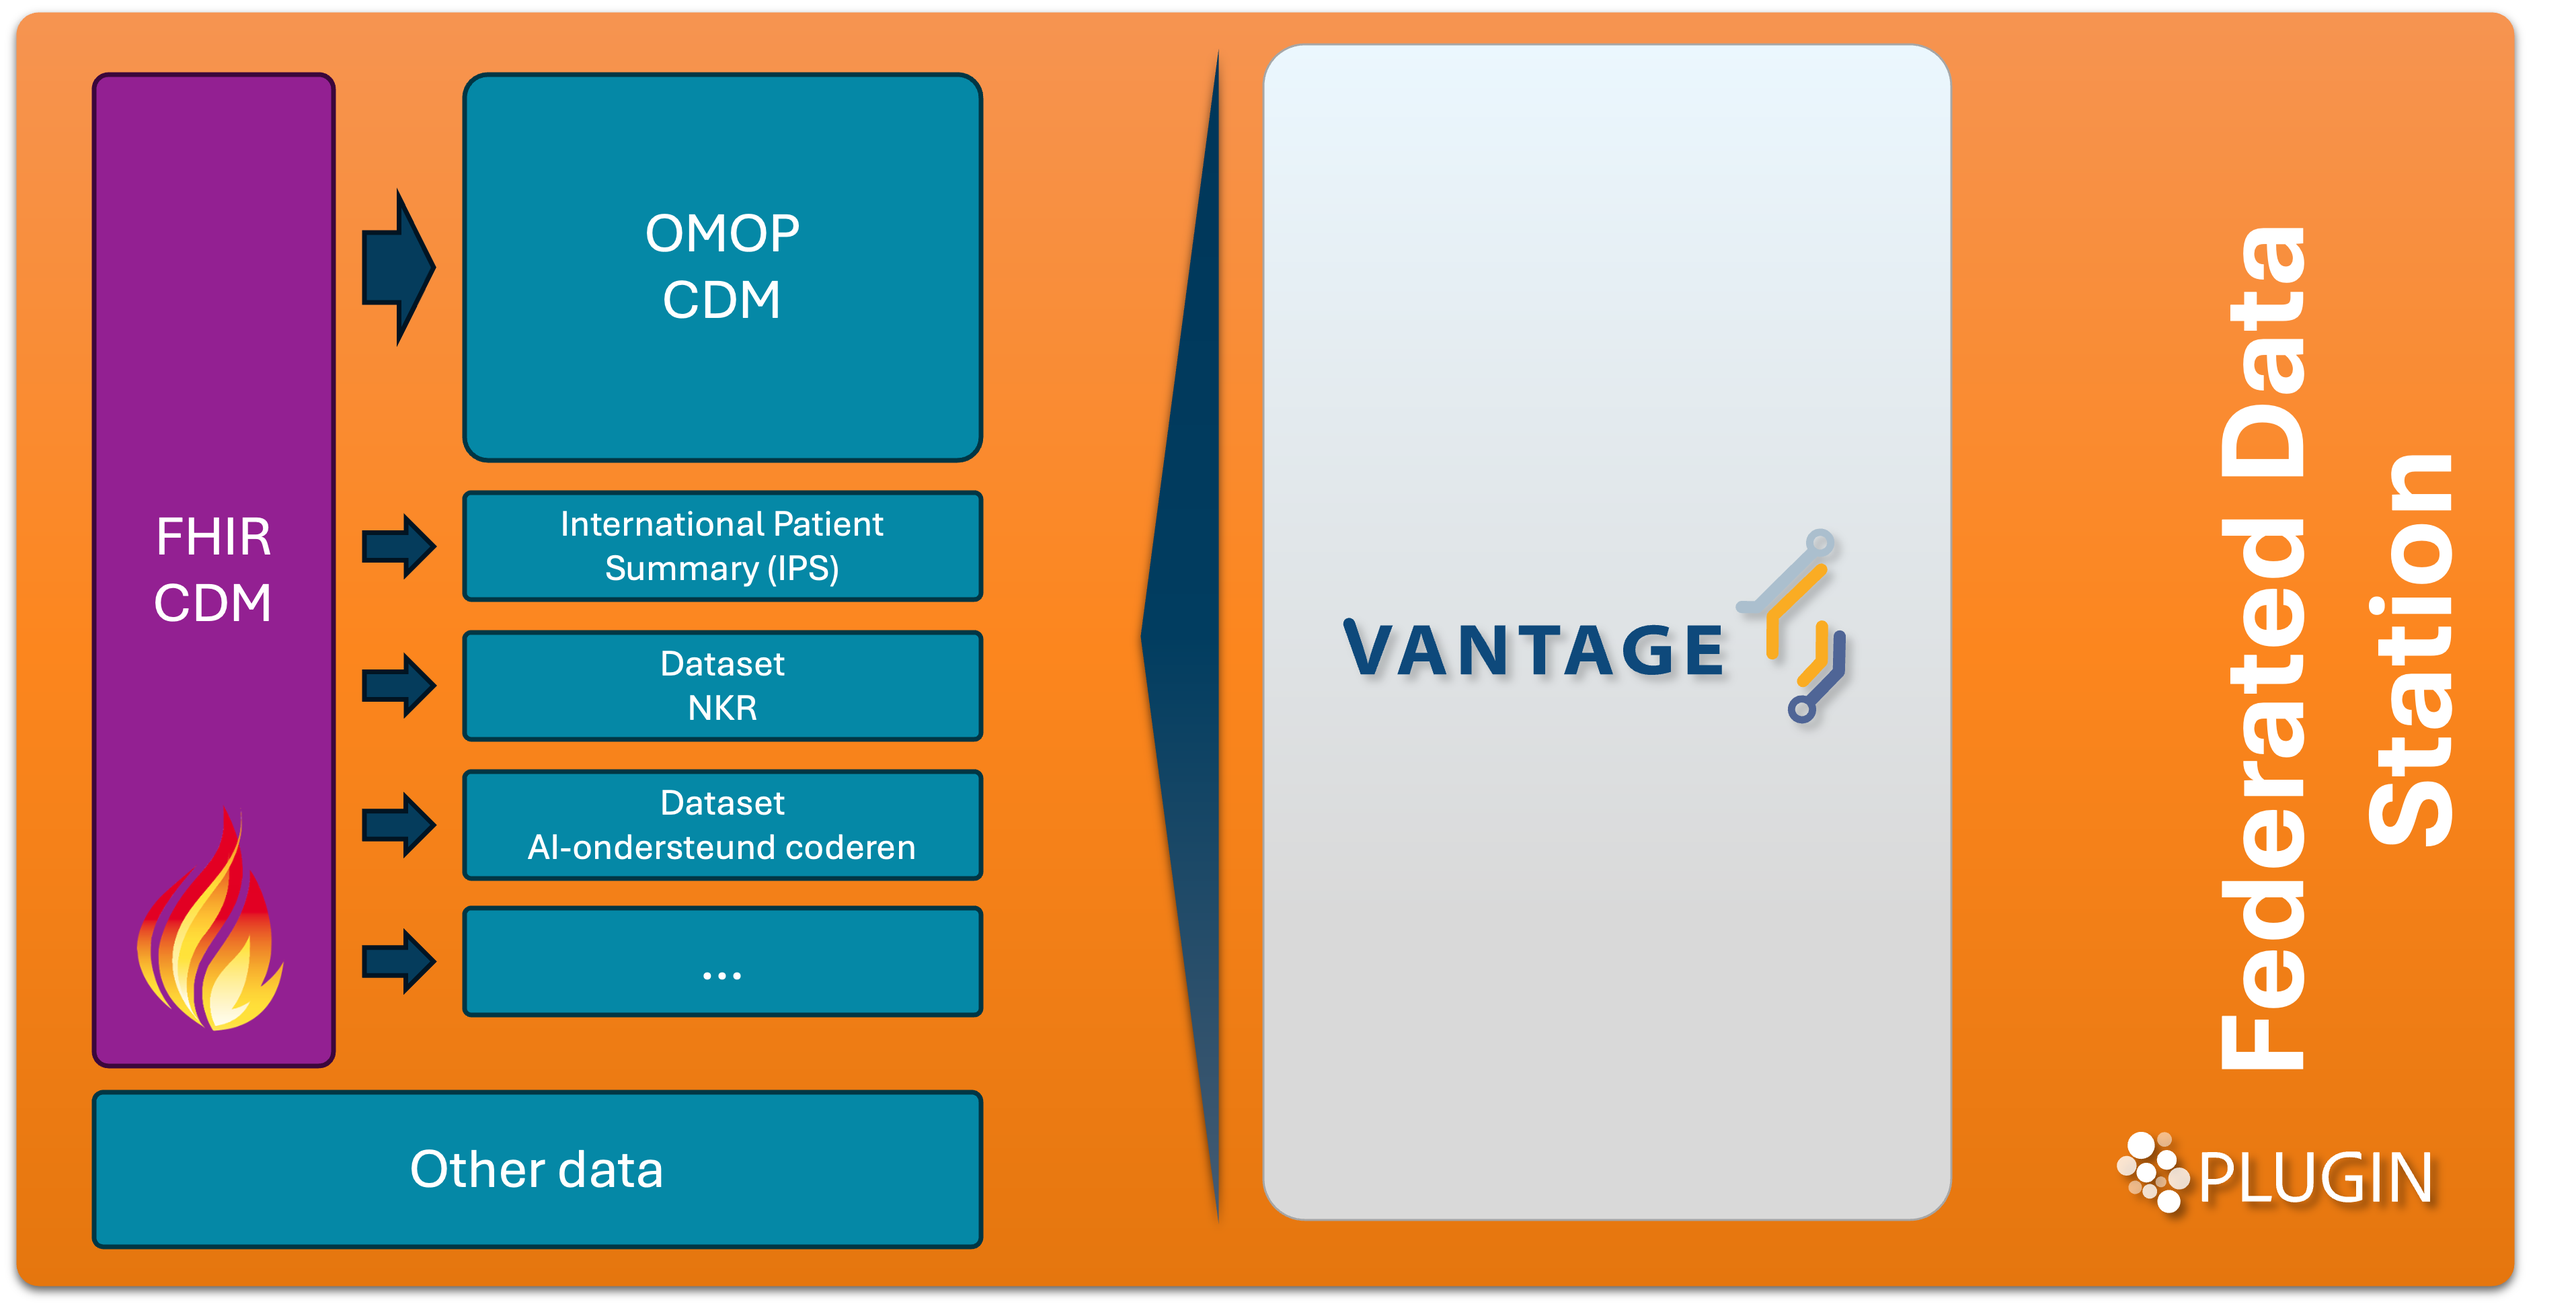
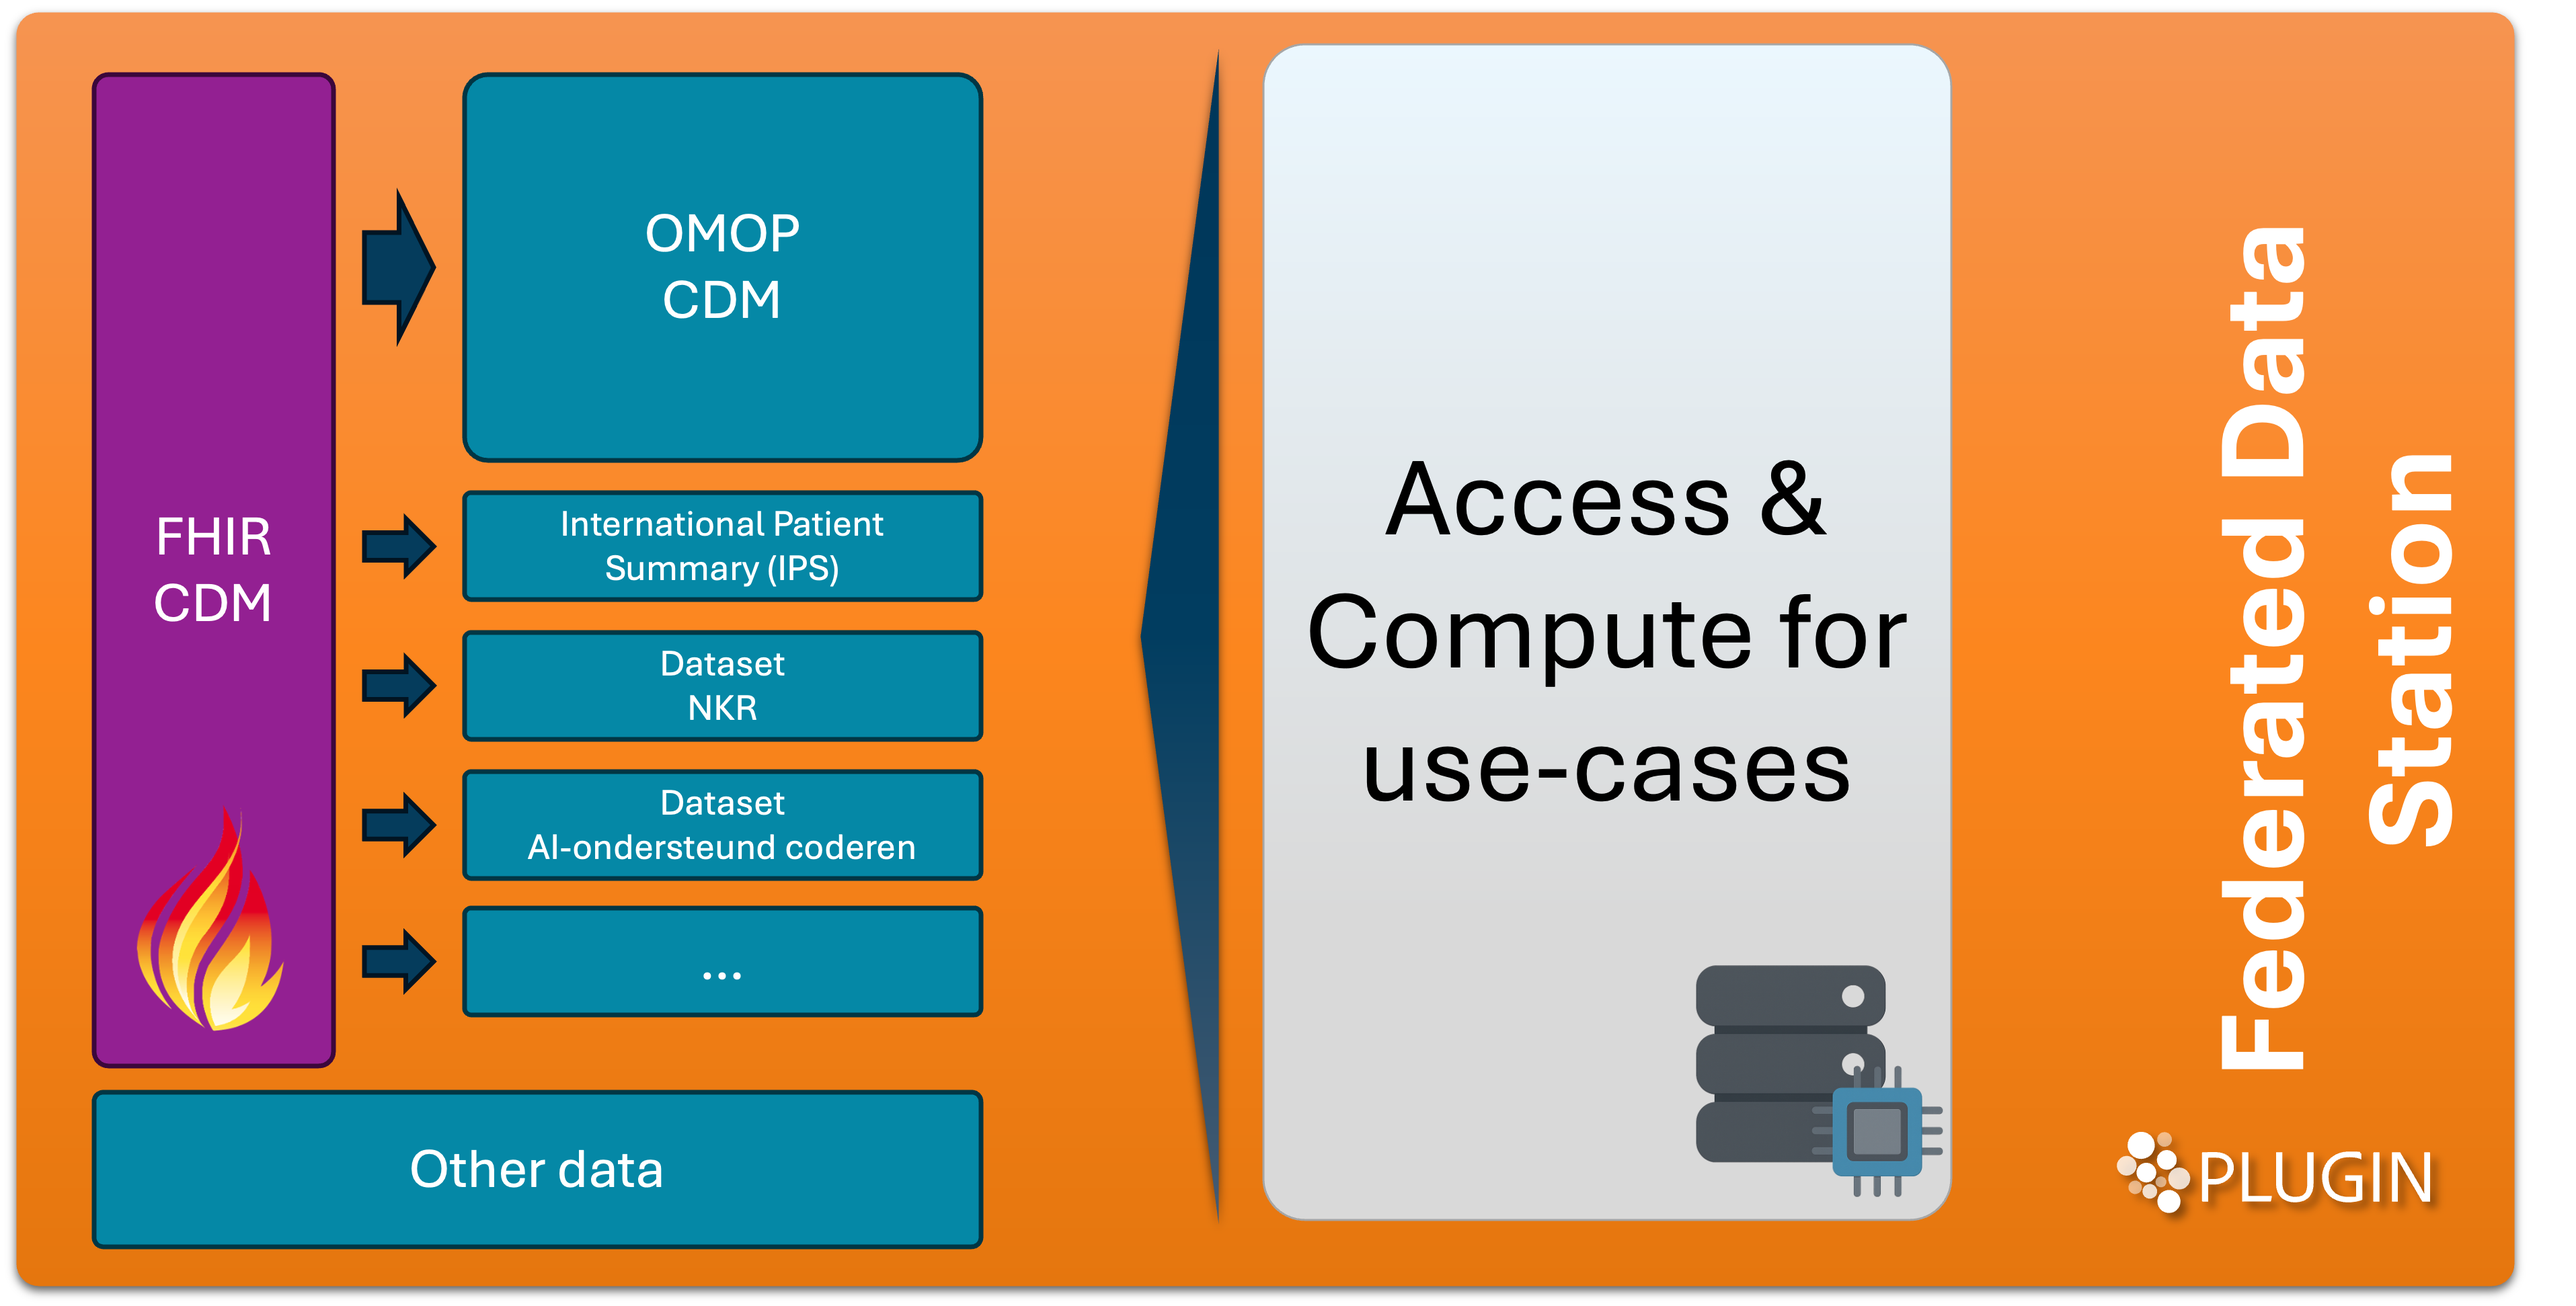
Changes as discussed during CDM session 5 (2026-01-14).

Changed region(s): [[0.497, 0.3397, 0.7455, 0.6176], [0.6523, 0.7411, 0.7766, 0.9264]]

diff --git a/input/pagecontent/index.md b/input/pagecontent/index.md
@@ -25,12 +25,12 @@ Met een Common Data Model streven we ernaar een gestandaardiseerde set gegevens 
 Op dit moment richt de Implementatiegids zich op punten 1 t/m 3 uit de opsomming hierboven. Er wordt vooralsnog géén uitspraak gedaan over opslag van gegevens of mechanisme van benaderen. Voor toepassing binnen een datastation dient ook over punt 4 helderheid te worden verschaft. Dit is een onderwerp dat momenteel wordt uitgewerkt door [Health-RI](https://health-ri.github.io/data-station-specification/) en zal t.z.t. ook in deze IG worgen beschreven.
 
 ### De aanpak
-Ziekenhuizen zijn een belangrijke bron van klinische gegevens. Binnen ziekenhuizen is het elektronische patiëntendossier (epd) hét systeem waarin veel gegevens samenkomen.  Deze Implementatiegids werkt daarom een "Common Data Model" (CDM) uit dat een brug slaat tussen de gegevens zoals deze in het epd zijn vastgelegd en de wereld van secundair gebruik (<strong>Figuur 1</strong>). Dit doen we door per FHIR Resource/ZiB/concept aan te geven welke attributen minimaal noodzakelijk zijn om breed, secundair gebruik mogelijk te maken. De informatiestroom die hiervoor nodig is, staat schematisch weergegeven in onderstaand figuur. Hierbij wordt eerder werk, zoals de [ZorgInformatiebouwstenen](https://nictiz.nl/wat-we-doen/activiteiten/zibs/) en de Nederlandse [nl-core](https://simplifier.net/packages/nictiz.fhir.nl.r4.nl-core) FHIR Profielen, zoveel mogelijk hergebruikt.
+Ziekenhuizen zijn een belangrijke bron van klinische gegevens. Binnen ziekenhuizen is het elektronische patiëntendossier (epd) hét systeem waarin veel gegevens samenkomen.  Deze Implementatiegids werkt daarom een "Common Data Model" (CDM) uit dat een brug slaat tussen de gegevens zoals deze in het epd zijn vastgelegd en de wereld van secundair gebruik (<strong>Figuur 1</strong>). Dit doen we door per FHIR Resource/zib/concept aan te geven welke attributen _minimaal noodzakelijk_ zijn om breed, secundair gebruik mogelijk te maken. De informatiestroom die hiervoor nodig is, staat schematisch weergegeven in onderstaand figuur. Hierbij wordt eerder werk, zoals de [zorginformatiebouwstenen](https://nictiz.nl/wat-we-doen/activiteiten/zibs/) en de Nederlandse [nl-core](https://simplifier.net/packages/nictiz.fhir.nl.r4.nl-core) FHIR Profielen, zoveel mogelijk hergebruikt.
 
-Vanuit dit FHIR Common Data Model, het vervolgens mogelijk om verschillende datasets samen te stellen, zoals de datasets die nodig zijn voor aanlevering aan de Nederlandse Kankerregistratie of voor het project AI-ondersteund coderen. Ook kunnen de data van hieruit worden omgezet naar andere common data modellen, zoals het [OMOP CDM](https://ohdsi.github.io/CommonDataModel/). 
+Vanuit dit FHIR Common Data Model is het vervolgens mogelijk om verschillende datasets samen te stellen, zoals de datasets die nodig zijn voor aanlevering aan de Nederlandse Kankerregistratie of voor het project AI-ondersteund coderen. Ook kunnen de data van hieruit worden omgezet naar andere common data modellen, zoals het [OMOP CDM](https://ohdsi.github.io/CommonDataModel/). 
 
 ### Relatie met eerder werk
-Eerdere inspanningen op gebied van standaardisatie van deze gegevens, richtten zich voornamelijk op  gegevens<italic>overdracht</italic>. Hierbij werd het uitgangspunt gehanteerd dat een zorgverlener, met een goed zicht op de medische status, verantwoordelijk is voor de juiste selectie en verzending van patiëntgegevens. 
+Eerdere inspanningen op gebied van standaardisatie van deze gegevens, richtten zich voornamelijk op  gegevens<i>overdracht</i>. Hierbij werd het uitgangspunt gehanteerd dat een zorgverlener, met een goed zicht op de medische status, verantwoordelijk is voor de juiste selectie en verzending van patiëntgegevens. 
 
 Bij gebruik van data binnen een gefedereerd netwerk (<strong>Figuur 2</strong> en <strong>Figuur 3</strong>), is dit uitgangspunt echter omgekeerd. Een gebruiker moet zonder directe toegang tot het volledige dossier de benodigde informatie kunnen terugvinden én interpreteren. Hiervoor is het belangrijk om niet alleen naar losse concepten (bijv. bloeddruk) te kijken, maar ook afspraken te maken over de aanwezige relaties tussen gegevens. De context moet kunnen worden afgegeleid uit de individuele (zorginformatie)bouwstenen.
 
@@ -41,15 +41,15 @@ Bij gebruik van data binnen een gefedereerd netwerk (<strong>Figuur 2</strong> e
   img="relationship-ehr-cdm.png"
   width="75%"
   
-  caption="<strong>Figuur 1:</strong> Relatie tussen epd-data en het PLUGIN Common Data Model (CDM). Data uit epd's (en andere databronnen) worden, waar mogelijk, in overeenstemming gebracht met het CDM. Van hieruit kunnen andere datasets worden samengesteld. Deze data worden beschikbaar gesteld in een Federated Data Station."
+  caption="<strong>Figuur 1:</strong> Relatie tussen epd-data en het PLUGIN FHIR Common Data Model (CDM). Data uit epd's (en andere databronnen) worden, waar mogelijk, in overeenstemming gebracht met het CDM. Van hieruit kunnen andere datasets worden samengesteld. Deze data worden beschikbaar gesteld in een Federated Data Station."
 %}
 
 {% 
   include img.html
-  img="relationship-ehr-cdm-with-v6.png"
+  img="relationship-ehr-cdm-with-use.png"
   width="75%"
 
-  caption="<strong>Figuur 2:</strong> De data worden binnen het Federated Data Station gekoppeld aan vantage6, software die gefedereerde toepassingen mogelijk maakt." 
+  caption="<strong>Figuur 2:</strong> De data worden binnen het Federated Data Station gekoppeld aan compute en software die gefedereerde toepassingen mogelijk maakt, bijvoorbeeld vantage6. Dit is geen noodzaak; het CDM kan ook gebruikt worden met andere toepassingen." 
 %}
 
 {% 
